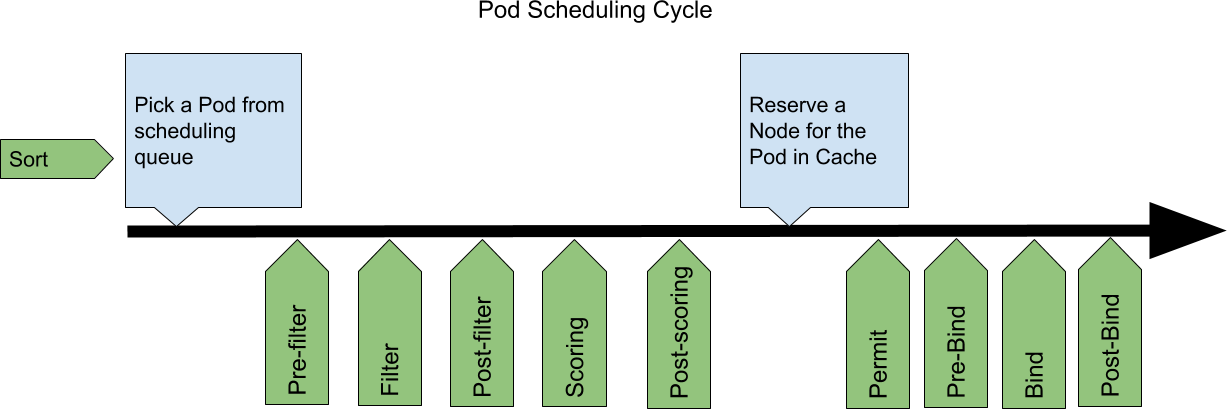
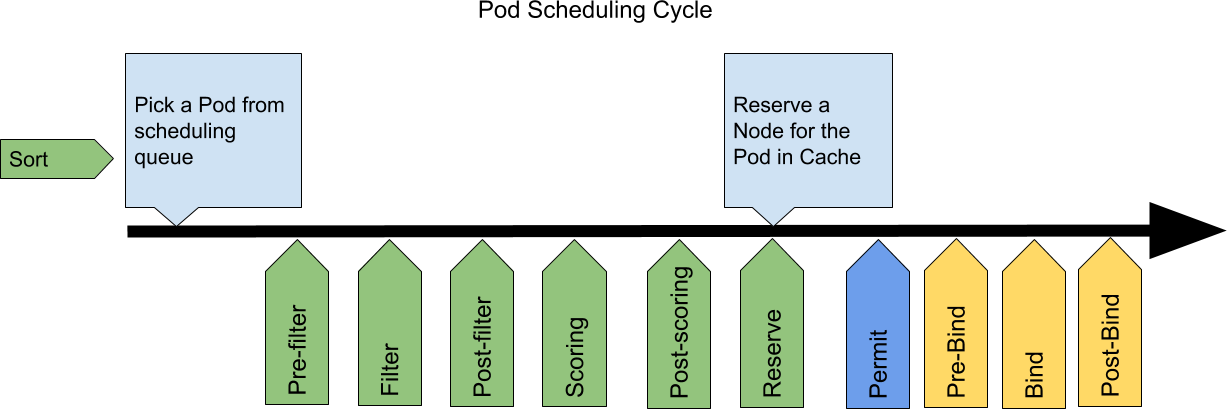
fixup! Add scheduling framework design proposal

Changed region(s): [[0.5884, 0.5868, 0.9291, 0.9976], [0.5884, 0.1174, 0.7433, 0.5575]]

diff --git a/scheduling/scheduling-framework.md b/scheduling/scheduling-framework.md
@@ -1,6 +1,6 @@
   
 Status: Draft  
-Created: 2018-04-09   /  Last updated: 2018-06-04  
+Created: 2018-04-09   /  Last updated: 2018-08-15
 Author: bsalamat  
 Contributors: misterikkit
 
@@ -244,12 +244,16 @@ of the Pod to this Node and reject the node if needed.
 
 ### Reserve
 
-This is not a plugin point. At this point scheduler updates its cache by
-"reserving" a Node (partially or fully) for the Pod. In scheduler v1 this stage
-is called "assume". At this point, only the scheduler cache is updated to
-reflect that the Node is (partially) reserved for the Pod. The actual assignment
-of the Node to the Pod happens during the "Bind" phase. That is when the API
-server updates the Pod object with the Node information.
+At this point scheduler updates its cache by "reserving" a Node (partially or
+fully) for the Pod. In scheduler v1 this stage is called "assume".
+At this point, only the scheduler cache is updated to
+reflect that the Node is (partially) reserved for the Pod. The scheduling
+framework calls plugins registered at this extension points so that they get a
+chance to perform cache updates or other accounting activities. These plugins
+do not return any value (except errors).
+
+The actual assignment of the Node to the Pod happens during the "Bind" phase.
+That is when the API server updates the Pod object with the Node information.
 
 ### Permit
 
@@ -301,6 +305,15 @@ return false, the Pod is rejected and sent back to the scheduling queue.
 The Post Bind plugins can be useful for housekeeping after a pod is scheduled.
 These plugins do not return any value and are not expected to influence the
 scheduling decision made in the scheduling cycle.
+
+### Informer Events
+
+The scheduling framework, similar to Scheduler v1, will have informers that let
+the framework keep its copy of the state of the cluster up-to-date. The
+informers generate events, such as "PodAdd", "PodUpdate", "PodDelete", etc. The
+framework allows plugins to register their own handlers for any of these events.
+The handlers allow plugins with internal state or caches to keep their state
+updated. 
 
 # USE-CASES
 
@@ -369,8 +382,9 @@ to build some of the ideas of the scheduling framework into Scheduler V1 to make
 it more extendable.
 
 As the first step, we would like to build:
- 1. [Pre-bind plugin point](#pre-bind). This will help us move our existing
- cluster resource binding code, such as persistent volume binding, to plugins.
+ 1. [Pre-bind](#pre-bind) and [Reserve](#reserve)  plugin points. These will
+ help us move our existing cluster resource binding code, such as persistent
+ volume binding, to plugins.
  1. We will also build
  [the plugin communication mechanism](#communication-and-statefulness-of-plugins).
  This will allow us to build more sophisticated plugins that would require
